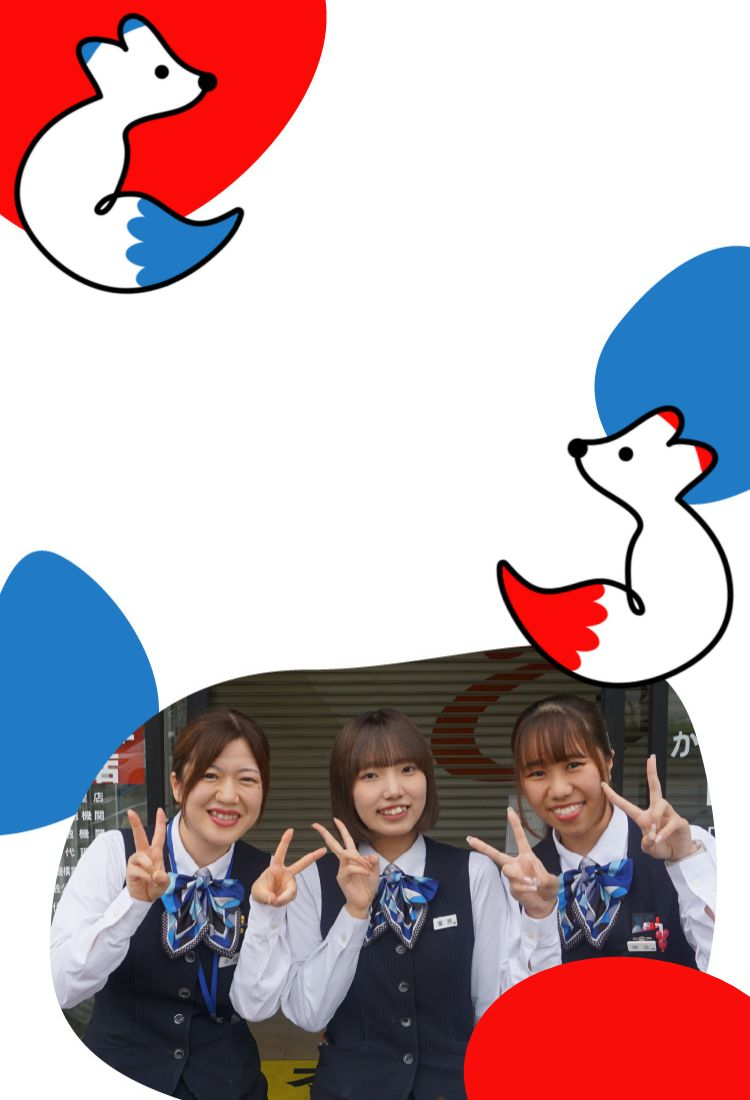
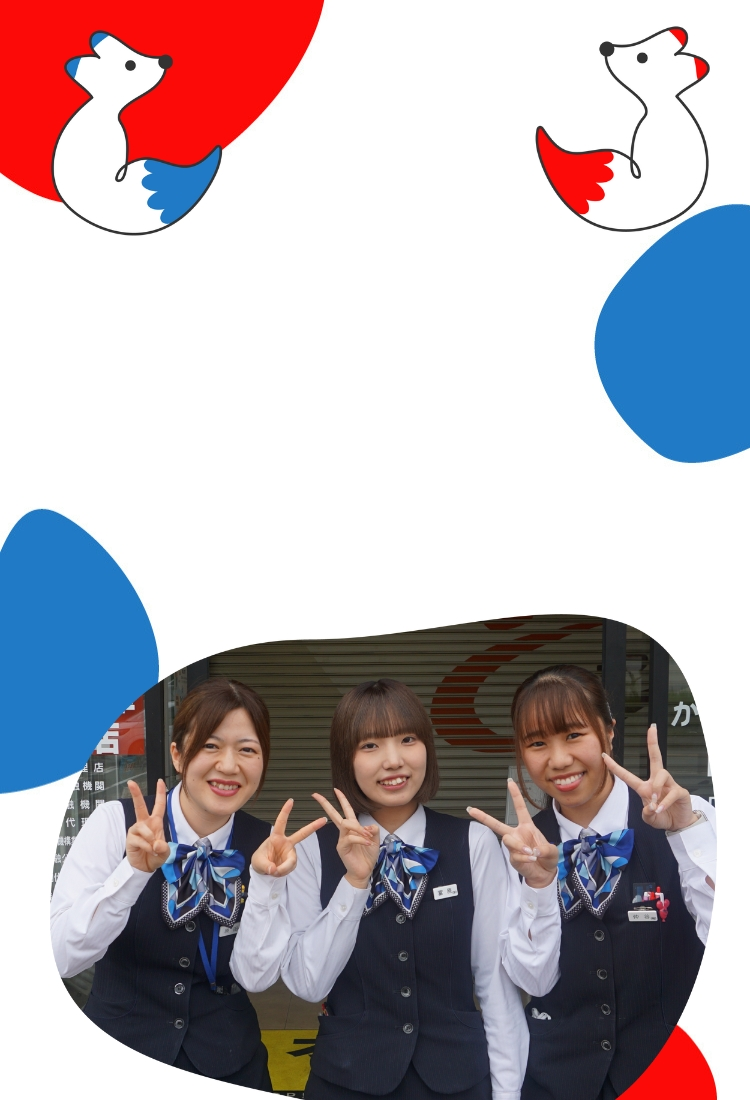
1.59

diff --git a/styles/style.css b/styles/style.css
@@ -269,94 +269,13 @@ section {
     margin: 0 -0.4em;
 }
 
+.text-blue {
+    color: #217AC5;
+}
+
 .closer {
     letter-spacing: -0.1em;
 }
-
-/* .container::after {
-    position: absolute;
-    content: '';
-    top: 0;
-    bottom: 0;
-    left: 0;
-    right: 0;
-    box-shadow: inset 0 0 10px 15px white;
-} */
-
-/* .image {
-    position: absolute;
-    top: 80px;
-    left: 0;
-    bottom: 0;
-    right: 0;
-    opacity: 0;
-    background-size: cover;
-    background-position: center center;
-
-    animation: image-switch-animation 15s infinite;
-}
-
-.src1 {
-    background-image: url(../image/mainvisual1.jpg);
-}
-
-.src2 {
-    background-image: url(../image/mainvisual2.jpg);
-}
-
-.src3 {
-    background-image: url(../image/mainvisual3.jpg);
-}
-
-.src4 {
-    background-image: url(../image/mainvisual4.jpg);
-}
-
-.src5 {
-    background-image: url(../image/mainvisual5.jpg);
-}
-
-@keyframes image-switch-animation {
-    0% {
-        opacity: 0;
-    }
-
-    5% {
-        opacity: 1;
-    }
-
-    25% {
-        opacity: 1;
-    }
-
-    30% {
-        opacity: 0;
-    }
-
-    100% {
-        opacity: 0;
-    }
-}
-
-.image:nth-of-type(1) {
-    animation-delay: 0s;
-}
-
-.image:nth-of-type(2) {
-    animation-delay: 5s;
-}
-
-.image:nth-of-type(3) {
-    animation-delay: 10s;
-}
-
-.image:nth-of-type(4) {
-    animation-delay: 15s;
-}
-
-.image:nth-of-type(5) {
-    animation-delay: 20s;
-} */
 
 .image {
     position: absolute;
@@ -538,7 +457,7 @@ section {
     left: 0;
     /* margin: 50px auto; */
     /* background-image: url(../image/mainvisual1.jpg); */
-    background-image: url(../image/mainvisual3.png);
+    /* background-image: url(../image/mainvisual3.png); */
     background-size: cover;
     background-position: center;
     background-repeat: no-repeat;
@@ -708,8 +627,12 @@ img {
     }
 
     .message-container {
-        background-image: url(../image/mainvisualSP2.png);
-        height: calc(100vh - 80px);
+        /* background-image: url(../image/mainvisualSP2.png); */
+        height: calc(100vh - 80px - 50px);
+    }
+
+    .image {
+        bottom: 50px;
     }
 
     .message-text-container {

diff --git a/index.html b/index.html
@@ -75,16 +75,12 @@
 
     <!-- <section class="section"> -->
     <div class="message-container">
+        <div class="image src1"></div>
+        <div class="image src2"></div>
+        <div class="image src3"></div>
         <div class="message">
             <h1>
                 <div class="message-text-container">
-                    <div class="container">
-                        <div class="image src1"></div>
-                        <div class="image src2"></div>
-                        <div class="image src3"></div>
-                        <!-- <div class="image src4"></div>
-                        <div class="image src5"></div> -->
-                    </div>
                     <span class="message-text-top honoka load-fadein">街と共に</span>
                     <span class="message-text-bottom honoka load-delay-fadein">未来を<span
                             class="title-red">描</span>く</span>
@@ -236,7 +232,8 @@
                 <div class="working-style-voice">
                     <a href="./interveiw06.html" class="voice-modal-open-button fadein">
                         <div class="working-style-voice-item-text">
-                            <p>地元のお客様に<span class="big closer">『 寄り添える 』</span>のが、この仕事の魅力です。</p>
+                            <p>地元のお客様に<span class="big closer">『 <span class="text-blue">寄り添える</span>
+                                    』</span>のが、この仕事の魅力です。</p>
                         </div>
                         <div class="voice-item-img">
                             <img src="image/WV_hirano01.jpg" alt="先輩社員の声6-1">
@@ -826,7 +823,7 @@
                 <p>豊川信用金庫　人事部</p>
                 <!-- <img src="image/phone-volume-solid.svg" alt="電話アイコン"> -->
                 <p class="contact-tel">0120-09-2317</p>
-                <p>担当：人事部（渡辺、大西）</p>
+                <p>担当：人事部（渡辺、浅井、大西）</p>
             </div>
         </section>
     </div>

diff --git a/interveiw01.html b/interveiw01.html
@@ -142,7 +142,7 @@
                     <p>豊川信用金庫　人事部</p>
                     <!-- <img src="image/phone-volume-solid.svg" alt="電話アイコン"> -->
                     <p class="contact-tel">0120-09-2317</p>
-                    <p>担当：人事部（渡辺、大西）</p>
+                    <p>担当：人事部（渡辺、浅井、大西）</p>
                 </div>
             </section>
         </div>

diff --git a/interveiw02.html b/interveiw02.html
@@ -153,7 +153,7 @@
                     <p>豊川信用金庫　人事部</p>
                     <!-- <img src="image/phone-volume-solid.svg" alt="電話アイコン"> -->
                     <p class="contact-tel">0120-09-2317</p>
-                    <p>担当：人事部（渡辺、大西）</p>
+                    <p>担当：人事部（渡辺、浅井、大西）</p>
                 </div>
             </section>
         </div>

diff --git a/interveiw03.html b/interveiw03.html
@@ -164,7 +164,7 @@
                     <p>豊川信用金庫　人事部</p>
                     <!-- <img src="image/phone-volume-solid.svg" alt="電話アイコン"> -->
                     <p class="contact-tel">0120-09-2317</p>
-                    <p>担当：人事部（渡辺、大西）</p>
+                    <p>担当：人事部（渡辺、浅井、大西）</p>
                 </div>
             </section>
         </div>

diff --git a/interveiw04.html b/interveiw04.html
@@ -164,7 +164,7 @@
                     <p>豊川信用金庫　人事部</p>
                     <!-- <img src="image/phone-volume-solid.svg" alt="電話アイコン"> -->
                     <p class="contact-tel">0120-09-2317</p>
-                    <p>担当：人事部（渡辺、大西）</p>
+                    <p>担当：人事部（渡辺、浅井、大西）</p>
                 </div>
             </section>
         </div>

diff --git a/interveiw05.html b/interveiw05.html
@@ -162,7 +162,7 @@
                     <p>豊川信用金庫　人事部</p>
                     <!-- <img src="image/phone-volume-solid.svg" alt="電話アイコン"> -->
                     <p class="contact-tel">0120-09-2317</p>
-                    <p>担当：人事部（渡辺、大西）</p>
+                    <p>担当：人事部（渡辺、浅井、大西）</p>
                 </div>
             </section>
         </div>

diff --git a/interveiw06.html b/interveiw06.html
@@ -160,7 +160,7 @@
                     <p>豊川信用金庫　人事部</p>
                     <!-- <img src="image/phone-volume-solid.svg" alt="電話アイコン"> -->
                     <p class="contact-tel">0120-09-2317</p>
-                    <p>担当：人事部（渡辺、大西）</p>
+                    <p>担当：人事部（渡辺、浅井、大西）</p>
                 </div>
             </section>
         </div>
